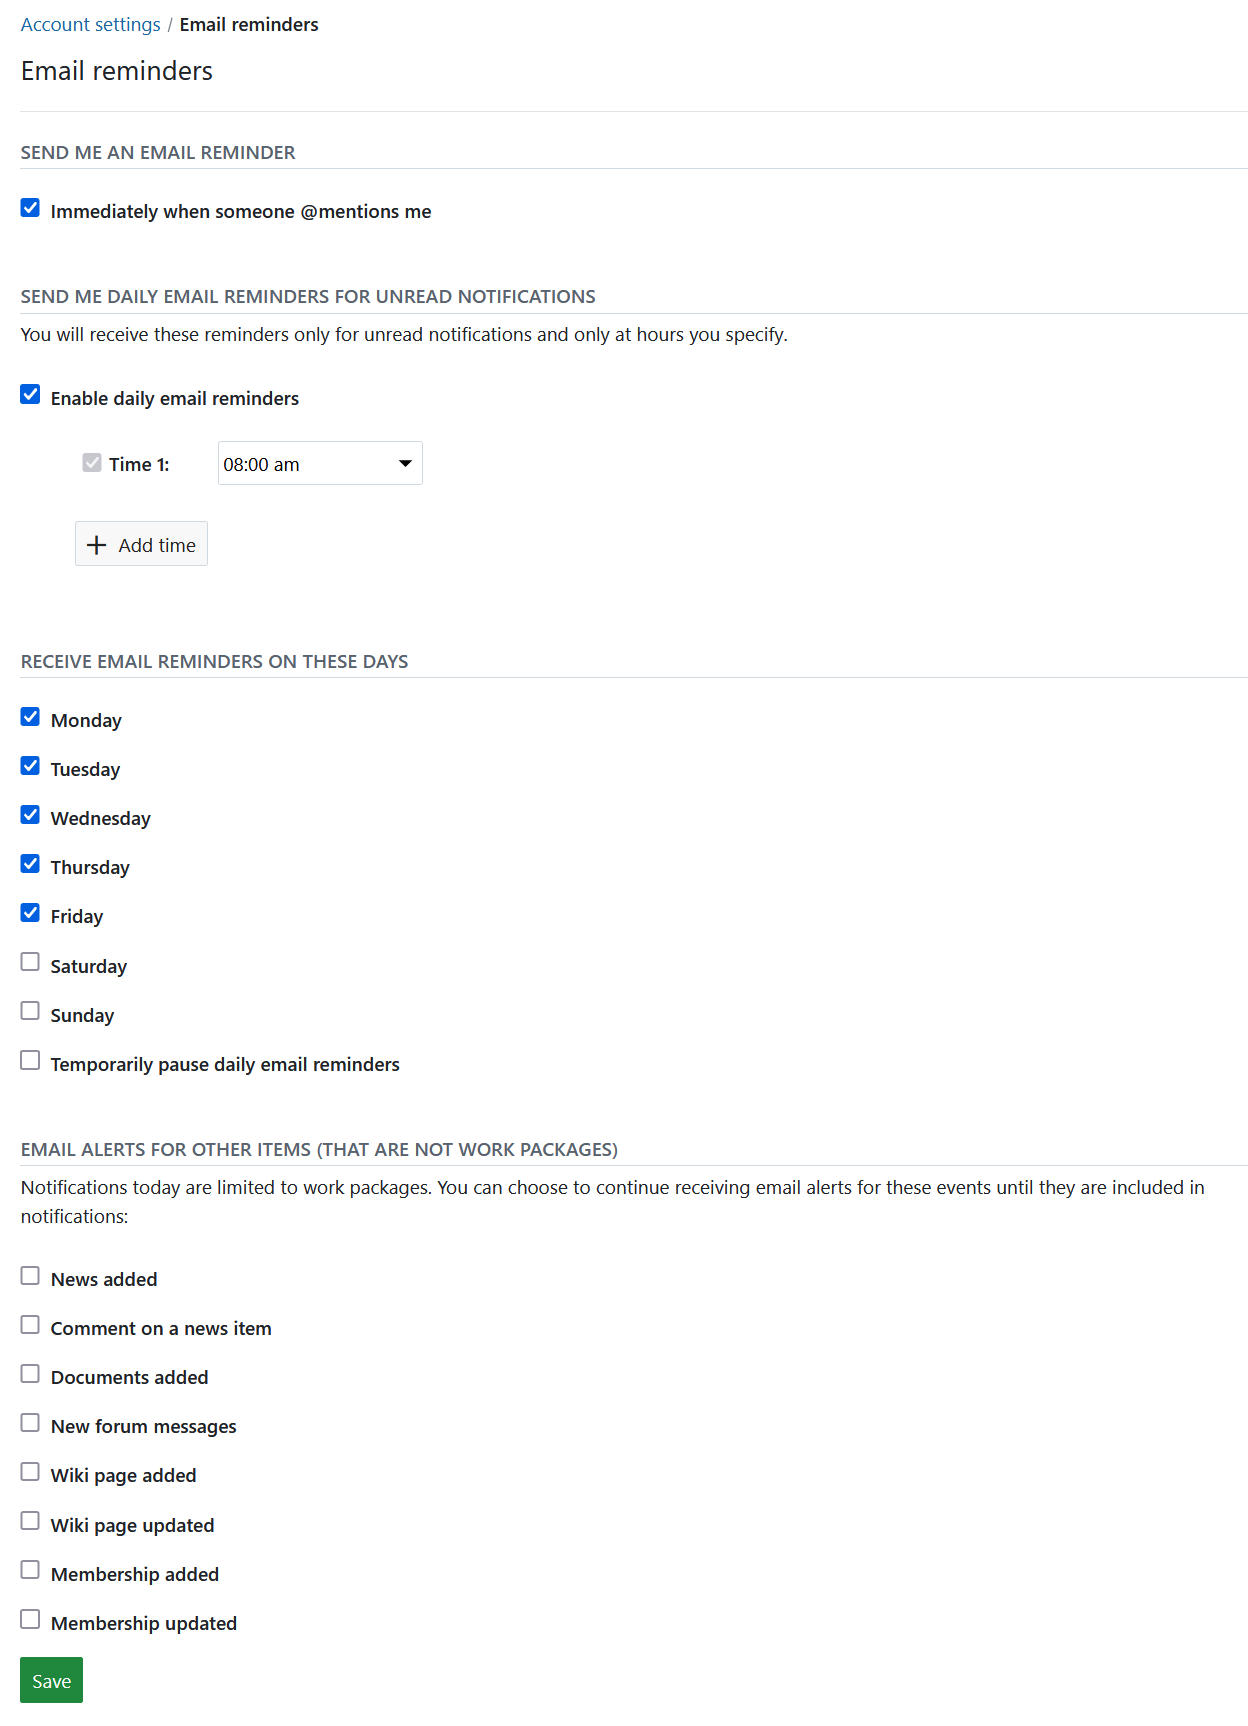
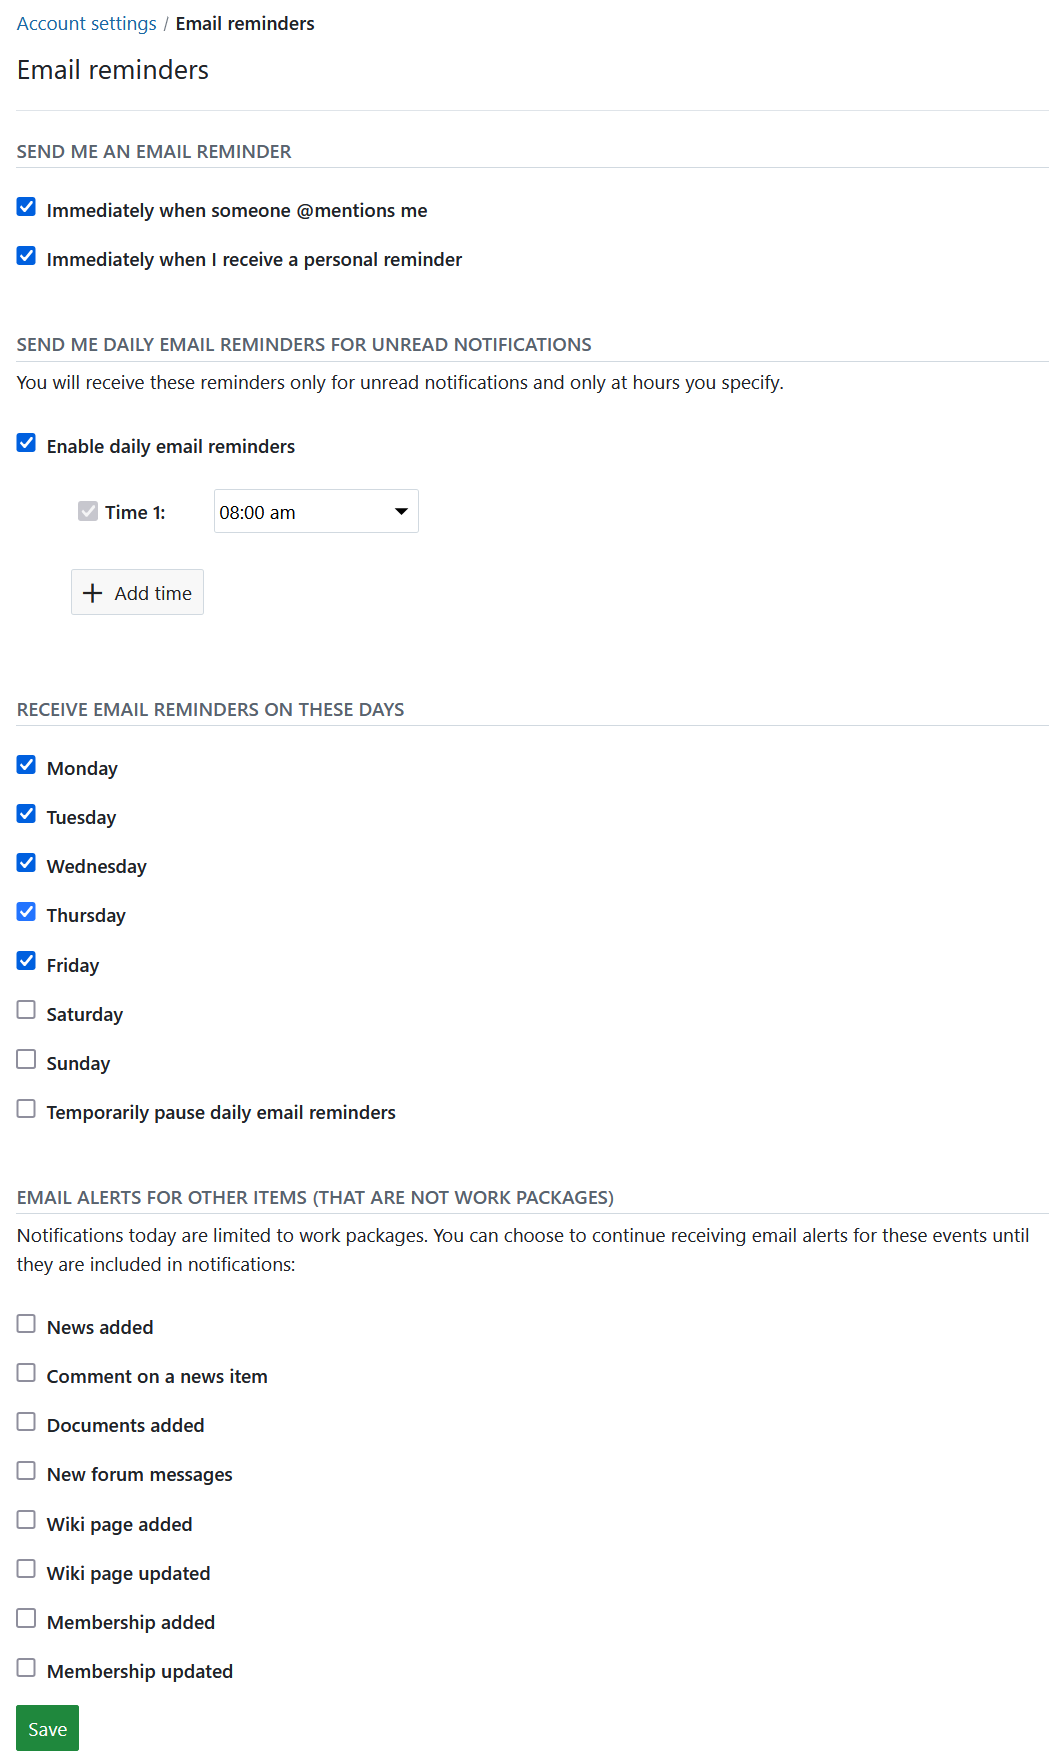
[#60473] 15.2 Documentation: work package reminders  https://community.openproject.org/work_packages/60473
[#60473] 15.2 Documentation: work package reminders

https://community.openproject.org/work_packages/60473

diff --git a/docs/user-guide/work-packages/share-work-packages/README.md b/docs/user-guide/work-packages/share-work-packages/README.md
@@ -10,7 +10,8 @@ keywords: work package, share, share work packages
 
 It is possible to share work packages with users that are not members of a project or are not yet registered on your instance. In the latter case a user will need to register in order to view the work package.
 
-> **Note**: Sharing work packages with non-member is an Enterprise add-on and can only be used with [Enterprise cloud](../../../enterprise-guide/enterprise-cloud-guide/) or  [Enterprise on-premises](../../../enterprise-guide/enterprise-on-premises-guide/). An upgrade from the free community edition is easy and helps support OpenProject.
+> [!NOTE]
+> Sharing work packages with non-member is an Enterprise add-on and can only be used with [Enterprise cloud](../../../enterprise-guide/enterprise-cloud-guide/) or  [Enterprise on-premises](../../../enterprise-guide/enterprise-on-premises-guide/). An upgrade from the free community edition is easy and helps support OpenProject.
 
 ## Share a work package
 
@@ -20,7 +21,8 @@ To share a work package with a project non-member select the detailed view of a 
 
 A dialogue window will open, showing the list of all users, who this work package has already been shared with. If the work package has not yet been shared, the list will be empty.
 
-> **Note**: In order to be able to share a work package with non members you need to have been assigned a [global role *create users*](../../../system-admin-guide/users-permissions/users/#create-users). If you do not see the option to share a work package, please contact your administrator.
+> [!NOTE]
+> In order to be able to share a work package with non members you need to have been assigned a [global role *create users*](../../../system-admin-guide/users-permissions/users/#create-users). If you do not see the option to share a work package, please contact your administrator.
 
 ![List of users with access to a work package in OpenProject](openproject_user_guide_shared_with_list.png)
 
@@ -46,7 +48,8 @@ Following user roles are available as filters:
 
 ![Filter list of users by user role](openproject_user_guide_sharing_member_role_filter.png)
 
-> **Note:** Please keep in mind that users listed after you have applied a filter may have additional permissions. For example if you select the **View** filter, it is possible that a user is listed, which has inherited additional role as part of user group with permissions exceeding the viewing ones.
+> [!NOTE]
+> Please keep in mind that users listed after you have applied a filter may have additional permissions. For example if you select the **View** filter, it is possible that a user is listed, which has inherited additional role as part of user group with permissions exceeding the viewing ones.
 
 You can search for a user or a group via a user name, group name or an email address. You can either select an existing user from the dropdown menu or enter an email address for an entirely new user, who will receive an invitation to create an account on your instance.
 
@@ -62,7 +65,8 @@ You can always adjust the viewing rights of a user by selecting an option from t
 
 ![Shared work package roles](openproject_user_guide_shared_with_list_change_role.png)
 
-> **Note:** granting the **edit** rights to the user will allow you to set this user a work package **Assignee** or **Accountable**.
+> [!NOTE]
+> Granting the **edit** rights to the user will allow you to set this user a work package **Assignee** or **Accountable**.
 
 Once a work package has been shared, you will see the number of shared users in the **Share** button.
 

diff --git a/docs/user-guide/work-packages/edit-work-package/README.md b/docs/user-guide/work-packages/edit-work-package/README.md
@@ -13,6 +13,7 @@ keywords: edit work packages
 | [Update a work package](#update-a-work-package)              | How to make a change to an existing work package.            |
 | [Update a work package in a table view](#update-a-work-package-in-a-work-package-table-view) | How to use the quick context menu in the work package table view. |
 | [Attach files to work packages](#attach-files-to-work-packages) | How to manually attach files to work packages.               |
+| [Set work package reminders](#work-package-reminders)        | How to set a reminder for a work package.                    |
 | [Watchers](#watchers)                                        | How to add or remove watchers from a work package.           |
 | [Export work packages](#export-work-packages)                | How to export work packages.                                 |
 | [Bulk edit work packages](#bulk-edit-work-packages)          | How to edit several work packages as once.                   |
@@ -97,6 +98,28 @@ Under the **Files** tab you will see the list of the all previously uploaded att
 You can remove an attachment by hovering over it and clicking the **Delete** icon.
 
 ![Delete a work package attachment in OpenProject](openproject_user_guide_wp_file_delete.png)
+
+## Work package reminders
+
+If you want to be reminded about a work package at  later point in time, you can use the **Reminder** function. Click the **Reminder** (alarm clock) icon in the work package detailed view.
+
+![Work package reminder icon in OpenProject](openproject_user_guide_wp_reminder_icon.png)
+
+Specify the time and date, or set a note for the reminder to be set, then click the **Set reminder** button.
+
+![Set reminder in OpenProject work packages](openproject_user_guide_wp_set_reminder.png)
+
+Once you set a reminder, you will see a confirmation message. The reminder icon will now show the badge to indicate that a reminder was set. Clicking on the reminder icon again will allow editing it. 
+
+![A badge to indicate a set reminder in OpenProject work package](openproject_user_guide_wp_reminder_badge.png)
+
+You will receive the reminder through the [Notification center](../../notifications/#access-in-app-notifications). 
+
+![Work package reminder in OpenProject notificaiton center](openproject_user_guide_wp_set_reminder_notification.png)
+
+> [!TIP]
+>
+> You can set to receive immediate notifications via e-mail for personal reminders. To do that adjust your [account settings](../../user-guide/account-settings/#email-reminders) accordingly.
 
 ## Watchers
 

diff --git a/docs/user-guide/work-packages/create-work-package/README.md b/docs/user-guide/work-packages/create-work-package/README.md
@@ -66,8 +66,10 @@ Also, at the bottom of the Work package form you can add files via drag and drop
 
 ![add-file](1566305040178.png)
 
-> Note: it is also possible for users that are not members of the project to add attachments to work packages if they have been granted the permission by an administrator. This can be useful for example for confirming bug reports.
+> [!NOTE]
+> It is also possible for users that are not members of the project to add attachments to work packages if they have been granted the permission by an administrator. This can be useful for example for confirming bug reports.
 
 Find out how to [edit existing Work packages](../edit-work-package).
 
-> Note: you can also use [Nextcloud integration](../../file-management/nextcloud-integration/#link-files-and-folders-to-work-packages) to upload files to Nextcloud or link already existing files or folders to a work package under the tab **Files**.
+> [!NOTE]
+> you can also use [Nextcloud integration](../../file-management/nextcloud-integration/#link-files-and-folders-to-work-packages) to upload files to Nextcloud or link already existing files or folders to a work package under the tab **Files**.

diff --git a/docs/user-guide/notifications/README.md b/docs/user-guide/notifications/README.md
@@ -51,7 +51,7 @@ The Activity tab will auto-scroll to the last event that generated a notificatio
 
 You can filter or group notifications by using the two sets of predefined filters on the left-hand menu:
 
-(Area 1) You can filter by the **reason** you were notified: because you were mentioned (*@mention*), because you are either the assignee or accountable for that work package, because it concerns a work package you are watching or because you have an active date alert.
+(Area 1) You can filter by the **reason** you were notified: because you were mentioned (*@mention*), because you are either the assignee or accountable for that work package, because it concerns a work package you are watching or because you have an active reminder or a date alert.
 
 (Area 2) You can filter by **project** (area 2), for example to filter for notifications that originated from a specific project.
 
